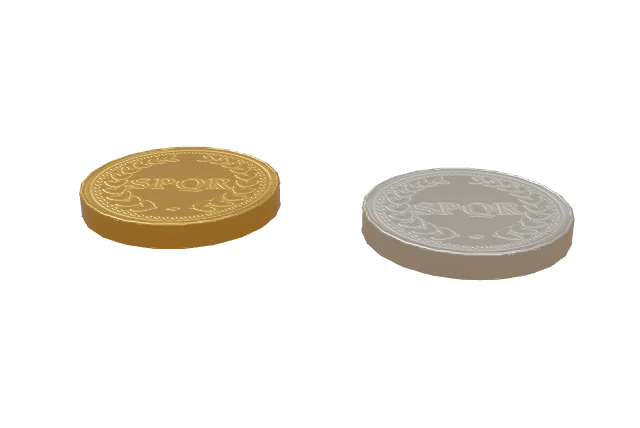
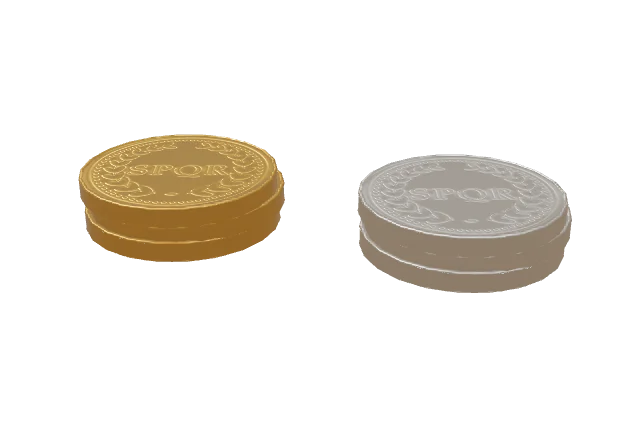
ラトルンクロルム3D：硬貨と骨の駒を3枚重ねに戻す（裏返ったときに分かりやすく）
Claude-Session: https://claude.ai/code/session_01EiWRAVpHBixHi279KdKnET

Changed region(s): [[0.5625, 0.3341, 0.9062, 0.6986], [0.125, 0.3037, 0.4688, 0.6379]]

diff --git a/atlas/lazy.js b/atlas/lazy.js
@@ -5,7 +5,7 @@
      AtlasLazy.has3D(id) / hasPlay(id) / hasRules(id) — known before loading; AtlasLazy.loaded(id) */
 (function () {
 'use strict';
-const G = {"reversi": ["models/reversi.js?v=1", "games/reversi.js?v=57", "rules/reversi.js?v=14"], "shogi": ["models/shogi.js?v=102", "games/shogi-play.js?v=51", "games/shogi.js?v=18", "rules/shogi.js?v=21"], "chess": ["models/chess.js?v=23", "games/chess.js?v=23", "rules/chess.js?v=8"], "backgammon": ["models/backgammon.js?v=123", "games/backgammon.js?v=29", "rules/backgammon.js?v=11"], "gomoku": ["models/goban.js?v=17", "games/gomoku.js?v=19", "rules/gomoku.js?v=10"], "go": ["models/goban.js?v=17", "games/go.js?v=18", "rules/go.js?v=7"], "hex": ["models/goban.js?v=17", "models/hex.js?v=3", "games/hex.js?v=9", "rules/hex.js?v=7"], "tafl": ["games/tafl.js?v=20", "rules/tafl.js?v=8"], "xiangqi": ["models/xiangqi.js?v=8", "games/xiangqi.js?v=18", "rules/xiangqi.js?v=7"], "janggi": ["models/xiangqi.js?v=8", "models/janggi.js?v=3", "games/janggi.js?v=10", "rules/janggi.js?v=3"], "checkers": ["models/checkers.js?v=23", "games/checkers.js?v=17", "rules/checkers.js?v=11"], "ugolki": ["models/checkers.js?v=23", "models/ugolki.js?v=4", "games/ugolki.js?v=17", "rules/ugolki.js?v=11"], "morris": ["models/morris.js?v=9", "games/morris-pieces.js?v=5", "games/morris.js?v=16", "rules/morris.js?v=8"], "connect4": ["models/connect4.js?v=6", "games/connect4-tiles.js?v=3", "games/connect4.js?v=10", "rules/connect4.js?v=3"], "mancala": ["models/mancala.js?v=6", "games/mancala.js?v=16", "rules/mancala.js?v=5"], "dots": ["models/dots.js?v=5", "games/dots.js?v=15", "rules/dots.js?v=3"], "ur": ["models/ur-dice.js?v=2", "models/ur.js?v=5", "games/ur-kit.js?v=15", "games/ur.js?v=15", "rules/ur.js?v=18"], "fanorona": ["models/fanorona.js?v=4", "games/fanorona.js?v=9", "rules/fanorona.js?v=8"], "konane": ["models/konane.js?v=7", "games/konane.js?v=18", "rules/konane.js?v=7"], "latrunculi": ["models/latrunculi.js?v=6", "games/latrunculi.js?v=9", "rules/latrunculi.js?v=3"], "foxgeese": ["models/foxgeese.js?v=7", "games/foxgeese.js?v=17", "rules/foxgeese.js?v=13"], "amazons": ["models/amazons.js?v=7", "games/amazons.js?v=17", "rules/amazons.js?v=9"], "senet": ["models/ur-dice.js?v=2", "models/senet.js?v=10", "games/senet-kit.js?v=5", "games/senet.js?v=20", "rules/senet.js?v=10"], "agon": ["models/agon.js?v=4", "games/agon.js?v=16", "rules/agon.js?v=6"], "alquerque": ["models/alquerque.js?v=3", "games/fanorona.js?v=9", "rules/alquerque.js?v=6"], "ludo": ["../ludo/engine.js?v=4", "../ludo/house.js?v=7", "../ludo/board2d.js?v=7", "../ludo/board-art.js?v=3", "models/ludo.js?v=10", "games/ludo.js?v=30", "rules/ludo.js?v=4"], "carrom": ["../carrom/engine.js?v=8", "models/carrom.js?v=18", "games/carrom.js?v=46", "rules/carrom.js?v=9", "../shared/onlinesec.js?v=2l14as1sh1", "online3d.js?v=2"], "crokinole": ["../carrom/engine.js?v=8", "games/carrom.js?v=46", "../crokinole/engine.js?v=7", "models/crokinole.js?v=13", "games/crokinole.js?v=24", "rules/crokinole.js?v=5", "../shared/onlinesec.js?v=2l14as1sh1", "online3d.js?v=2"], "hockey": ["../hockey/engine.js?v=19", "models/hockey.js?v=8", "games/hockey.js?v=41", "rules/hockey.js?v=8"], "botao": ["../carrom/engine.js?v=8", "games/carrom.js?v=46", "../botao/engine.js?v=16", "models/botao.js?v=11", "games/botao-i18n.js?v=16", "games/botao.js?v=36", "rules/botao.js?v=10", "../shared/onlinesec.js?v=2l14as1sh1", "online3d.js?v=2"], "shanghai": ["games/shanghai-core.js?v=2", "games/shanghai-scenes.js?v=2", "games/shanghai-zodiac.js?v=6", "games/shanghai-i18n.js?v=17", "models/shanghai.js?v=19", "games/shanghai.js?v=44", "rules/shanghai-i18n.js?v=1", "rules/shanghai.js?v=1"], "patolli": ["models/patolli.js?v=1", "games/patolli-kit.js?v=2", "games/patolli.js?v=4", "rules/patolli.js?v=3"], "peg": ["../peg/engine.js?v=2", "../peg/i18n.js?v=11", "models/peg.js?v=23", "games/peg.js?v=16", "rules/peg.js?v=4"], "hitblow": ["../hitblow/engine.js?v=6", "models/hitblow.js?v=27", "games/hitblow.js?v=19", "rules/hitblow.js?v=4"]};
+const G = {"reversi": ["models/reversi.js?v=1", "games/reversi.js?v=57", "rules/reversi.js?v=14"], "shogi": ["models/shogi.js?v=102", "games/shogi-play.js?v=51", "games/shogi.js?v=18", "rules/shogi.js?v=21"], "chess": ["models/chess.js?v=23", "games/chess.js?v=23", "rules/chess.js?v=8"], "backgammon": ["models/backgammon.js?v=123", "games/backgammon.js?v=29", "rules/backgammon.js?v=11"], "gomoku": ["models/goban.js?v=17", "games/gomoku.js?v=19", "rules/gomoku.js?v=10"], "go": ["models/goban.js?v=17", "games/go.js?v=18", "rules/go.js?v=7"], "hex": ["models/goban.js?v=17", "models/hex.js?v=3", "games/hex.js?v=9", "rules/hex.js?v=7"], "tafl": ["games/tafl.js?v=20", "rules/tafl.js?v=8"], "xiangqi": ["models/xiangqi.js?v=8", "games/xiangqi.js?v=18", "rules/xiangqi.js?v=7"], "janggi": ["models/xiangqi.js?v=8", "models/janggi.js?v=3", "games/janggi.js?v=10", "rules/janggi.js?v=3"], "checkers": ["models/checkers.js?v=23", "games/checkers.js?v=17", "rules/checkers.js?v=11"], "ugolki": ["models/checkers.js?v=23", "models/ugolki.js?v=4", "games/ugolki.js?v=17", "rules/ugolki.js?v=11"], "morris": ["models/morris.js?v=9", "games/morris-pieces.js?v=5", "games/morris.js?v=16", "rules/morris.js?v=8"], "connect4": ["models/connect4.js?v=6", "games/connect4-tiles.js?v=3", "games/connect4.js?v=10", "rules/connect4.js?v=3"], "mancala": ["models/mancala.js?v=6", "games/mancala.js?v=16", "rules/mancala.js?v=5"], "dots": ["models/dots.js?v=5", "games/dots.js?v=15", "rules/dots.js?v=3"], "ur": ["models/ur-dice.js?v=2", "models/ur.js?v=5", "games/ur-kit.js?v=15", "games/ur.js?v=15", "rules/ur.js?v=18"], "fanorona": ["models/fanorona.js?v=4", "games/fanorona.js?v=9", "rules/fanorona.js?v=8"], "konane": ["models/konane.js?v=7", "games/konane.js?v=18", "rules/konane.js?v=7"], "latrunculi": ["models/latrunculi.js?v=7", "games/latrunculi.js?v=9", "rules/latrunculi.js?v=3"], "foxgeese": ["models/foxgeese.js?v=7", "games/foxgeese.js?v=17", "rules/foxgeese.js?v=13"], "amazons": ["models/amazons.js?v=7", "games/amazons.js?v=17", "rules/amazons.js?v=9"], "senet": ["models/ur-dice.js?v=2", "models/senet.js?v=10", "games/senet-kit.js?v=5", "games/senet.js?v=20", "rules/senet.js?v=10"], "agon": ["models/agon.js?v=4", "games/agon.js?v=16", "rules/agon.js?v=6"], "alquerque": ["models/alquerque.js?v=3", "games/fanorona.js?v=9", "rules/alquerque.js?v=6"], "ludo": ["../ludo/engine.js?v=4", "../ludo/house.js?v=7", "../ludo/board2d.js?v=7", "../ludo/board-art.js?v=3", "models/ludo.js?v=10", "games/ludo.js?v=30", "rules/ludo.js?v=4"], "carrom": ["../carrom/engine.js?v=8", "models/carrom.js?v=18", "games/carrom.js?v=46", "rules/carrom.js?v=9", "../shared/onlinesec.js?v=2l14as1sh1", "online3d.js?v=2"], "crokinole": ["../carrom/engine.js?v=8", "games/carrom.js?v=46", "../crokinole/engine.js?v=7", "models/crokinole.js?v=13", "games/crokinole.js?v=24", "rules/crokinole.js?v=5", "../shared/onlinesec.js?v=2l14as1sh1", "online3d.js?v=2"], "hockey": ["../hockey/engine.js?v=19", "models/hockey.js?v=8", "games/hockey.js?v=41", "rules/hockey.js?v=8"], "botao": ["../carrom/engine.js?v=8", "games/carrom.js?v=46", "../botao/engine.js?v=16", "models/botao.js?v=11", "games/botao-i18n.js?v=16", "games/botao.js?v=36", "rules/botao.js?v=10", "../shared/onlinesec.js?v=2l14as1sh1", "online3d.js?v=2"], "shanghai": ["games/shanghai-core.js?v=2", "games/shanghai-scenes.js?v=2", "games/shanghai-zodiac.js?v=6", "games/shanghai-i18n.js?v=17", "models/shanghai.js?v=19", "games/shanghai.js?v=44", "rules/shanghai-i18n.js?v=1", "rules/shanghai.js?v=1"], "patolli": ["models/patolli.js?v=1", "games/patolli-kit.js?v=2", "games/patolli.js?v=4", "rules/patolli.js?v=3"], "peg": ["../peg/engine.js?v=2", "../peg/i18n.js?v=11", "models/peg.js?v=23", "games/peg.js?v=16", "rules/peg.js?v=4"], "hitblow": ["../hitblow/engine.js?v=6", "models/hitblow.js?v=27", "games/hitblow.js?v=19", "rules/hitblow.js?v=4"]};
 const F = {"patolli": {"t3": true, "play": true, "rules": true}, "reversi": {"t3": true, "play": true, "rules": true}, "shogi": {"t3": true, "play": true, "rules": true}, "chess": {"t3": true, "play": true, "rules": true}, "backgammon": {"t3": true, "play": true, "rules": true}, "gomoku": {"t3": true, "play": true, "rules": true}, "go": {"t3": true, "play": true, "rules": true}, "hex": {"t3": true, "play": true, "rules": true}, "tafl": {"t3": true, "play": true, "rules": true}, "xiangqi": {"t3": true, "play": true, "rules": true}, "janggi": {"t3": true, "play": true, "rules": true}, "checkers": {"t3": true, "play": true, "rules": true}, "ugolki": {"t3": true, "play": true, "rules": true}, "morris": {"t3": true, "play": true, "rules": true}, "connect4": {"t3": true, "play": true, "rules": true}, "mancala": {"t3": true, "play": true, "rules": true}, "dots": {"t3": true, "play": true, "rules": true}, "ur": {"t3": true, "play": true, "rules": true}, "fanorona": {"t3": true, "play": true, "rules": true}, "konane": {"t3": true, "play": true, "rules": true}, "latrunculi": {"t3": true, "play": true, "rules": true}, "foxgeese": {"t3": true, "play": true, "rules": true}, "amazons": {"t3": true, "play": true, "rules": true}, "senet": {"t3": true, "play": true, "rules": true}, "agon": {"t3": true, "play": true, "rules": true}, "alquerque": {"t3": true, "play": true, "rules": true}, "ludo": {"t3": true, "play": true, "rules": true}, "carrom": {"t3": true, "play": true, "rules": true}, "crokinole": {"t3": true, "play": true, "rules": true}, "hockey": {"t3": true, "play": true, "rules": true}, "botao": {"t3": true, "play": true, "rules": true}, "peg": {"t3": true, "play": true, "rules": true}, "shanghai": {"t3": true, "play": true, "rules": true}, "hitblow": {"t3": true, "play": true, "rules": true}};
 const done = new Set(), loading = new Map(), ok = new Set();
 function load(src) {

diff --git a/atlas/models/latrunculi.js b/atlas/models/latrunculi.js
@@ -524,16 +524,22 @@
         d[i * 4] = 0; d[i * 4 + 1] = Math.round((.05 + rel * .5) * 255); d[i * 4 + 2] = 255; d[i * 4 + 3] = 255; }
       g.putImageData(out, 0, 0); t.image = a; t.needsUpdate = true; if (X.kick) X.kick(200); });
     return t; });
-  function coin(g, col) {
-    const TT = T(), gold = col === 1, r = .3, th = .07;
+  function coin(g, col) {   // (2026-11-19 user: a stack of three again — turned over, the stack shows plainly)
+    const TT = T(), gold = col === 1, r = .3, th = .055;
     const metal = M('coin' + col, { color: gold ? '#ffd27a' : '#f2f4f7', metalness: 1, roughness: .04, envMapIntensity: 2.6 });
     const face = (k, img) => M('coinF' + k, { bumpMap: picTex(img), bumpScale: 1.6, roughnessMap: proofR(img), color: gold ? '#ffd27a' : '#f2f4f7', metalness: 1, roughness: 1, envMapIntensity: 2.6 });   // (no colour picture: the design shows as frosted relief on the mirror field)
-    g.add(mesh(G('cnSide1', () => { const q = new TT.CylinderGeometry(r, r, th, seg(56), 1, true); q.translate(0, th / 2, 0); return q; }), metal));
-    for (const y of [0, th]) g.add(mesh(G('cnRim1', () => { const q = new TT.TorusGeometry(r - .007, .008, 3, seg(48)); q.rotateX(Math.PI / 2); return q; }), metal, 0, y, 0));
-    g.add(mesh(faceGeo('cnTop', r, .9, false), face(col + 't', 'pc-coin-' + (gold ? 'b' : 'w')), 0, th + .0005, 0));
-    g.add(mesh(faceGeo('cnBot', r, .9, true), face(col + 'b', 'pc-coin-' + (gold ? 'bx' : 'wx')), 0, -.0005, 0));
-    g.userData.h = th; g.userData.lie = 0;
+    const side = G('cnSide3', () => { const q = new TT.CylinderGeometry(r, r, th, seg(56), 1, true); q.translate(0, th / 2, 0); return q; });
+    const rim = G('cnRim3', () => { const q = new TT.TorusGeometry(r - .006, .007, 3, seg(48)); q.rotateX(Math.PI / 2); return q; });
+    for (let k = 0; k < 3; k++) {
+      const o = new TT.Group(); o.position.set(k === 1 ? .014 : k === 2 ? -.006 : 0, k * th, k === 1 ? -.01 : k === 2 ? .008 : 0); g.add(o);
+      o.add(mesh(side, metal)); o.add(mesh(rim, metal, 0, th, 0)); o.add(mesh(rim, metal, 0, 0, 0));
+      if (k === 2) o.add(mesh(faceGeo('cnTop', r, .9, false), face(col + 't', 'pc-coin-' + (gold ? 'b' : 'w')), 0, th + .0005, 0));
+      if (k === 0) o.add(mesh(faceGeo('cnBot', r, .9, true), face(col + 'b', 'pc-coin-' + (gold ? 'bx' : 'wx')), 0, -.0005, 0));
+      if (k < 2) o.add(mesh(G('cnCapP', () => { const q = new TT.CircleGeometry(r - .004, seg(40)); q.rotateX(-Math.PI / 2); return q; }), metal, 0, th - .0005, 0));   // (the edge of the face shows where the next coin sits off-centre)
+    }
+    g.userData.h = 3 * th; g.userData.lie = 0;
   }
+
   // 'glass' (in 3D, 2026-11-19 user: 石細工でこだわりのチェス駒的な像で): a little Ionic column carved in marble — a square plinth,
   // the torus–scotia base, a fluted shaft (the flutes in a normal map), the capital with its two scrolls and the abacus slab.
   // Black verde antico (dark green-black), White Carrara; both old and weathered like the helmets.
@@ -564,14 +570,18 @@
     g.userData.h = .56 * 1.18; g.userData.lie = .21 * 1.18;
   }
   // bone: one turned disc (2026-11-19 user: 1枚でOK) — a bead round the edge, rings cut in the top; VI cut underneath (the 2D picture)
-  function bone(g, col) {
+  function bone(g, col) {   // (2026-11-19 user: three discs stacked again — turned over, the stack shows plainly)
     const TT = T(), dark = col === 1;
     const bm = M('boneC' + col, { map: boneTex(), bumpMap: boneTex(), bumpScale: .8, color: dark ? '#6e5640' : '#ffffff', roughness: .5, clearcoat: .15, clearcoatRoughness: .5 });
-    g.add(mesh(G('bnBody1', () => new TT.LatheGeometry([V2(0, .002), V2(.27, .002), V2(.29, .02), V2(.295, .05), V2(.29, .075), V2(.27, .092),
-      V2(.22, .098), V2(.2, .082), V2(.18, .1), V2(.12, .1), V2(.1, .084), V2(.08, .1), V2(0, .096)], seg(38))), bm));
+    const plain = G('bnDisc', () => new TT.LatheGeometry([V2(0, .002), V2(.27, .002), V2(.285, .015), V2(.29, .036), V2(.285, .055), V2(.27, .066), V2(0, .066)], seg(38)));
+    const top = G('bnTop3', () => new TT.LatheGeometry([V2(0, .002), V2(.27, .002), V2(.285, .015), V2(.29, .036), V2(.285, .055), V2(.27, .066),
+      V2(.22, .072), V2(.2, .058), V2(.18, .074), V2(.12, .074), V2(.1, .06), V2(.08, .074), V2(0, .07)], seg(38)));
+    const dz = .064;
+    g.add(mesh(plain, bm, 0, 0, 0)); g.add(mesh(plain, bm, .012, dz, -.008)); g.add(mesh(top, bm, -.004, 2 * dz, .006));
     g.add(mesh(faceGeo('bnBot', .27, .9, true), M('boneU' + col, { map: picTex('pc-bone-' + (dark ? 'bx' : 'wx')), color: '#ffffff', roughness: .55 }), 0, 0, 0));
-    g.userData.h = .1; g.userData.lie = 0;
+    g.userData.h = 2 * dz + .074; g.userData.lie = 0;
   }
+
   const BUILD = { helm, wood, abstract, coin, glass, bone };
   // col 1 Black (the first player) / 2 White. The body sits in an inner group that turns (topples or turns over).
   function piece(col, set) {

diff --git a/latrunculi/index.html b/latrunculi/index.html
@@ -1374,7 +1374,7 @@ body.hb-on .hb .controls.hb-menu{display:flex!important}
   const f = document.createElement('link'); f.rel = 'stylesheet'; f.href = 'https://fonts.googleapis.com/css2?family=RocknRoll+One&family=Zen+Maru+Gothic:wght@500;700;900&family=Fredoka:wght@600;700&display=swap'; document.head.appendChild(f);
   const load = src => new Promise((res, rej) => { const s = document.createElement('script'); s.src = src; s.onload = res; s.onerror = rej; document.body.appendChild(s); });
   if (window.AtlasLoading) { AtlasLoading.show(); setTimeout(() => AtlasLoading.hide(), 12000); }   // safety net
-  (/[?&]three=128\b/.test(location.search) ? load('https://cdnjs.cloudflare.com/ajax/libs/three.js/r128/three.min.js') : load('../atlas/vendor/three-r186.min.js?v=1').then(() => load('../atlas/vendor/three-compat.js?v=15'))).then(() => load('../atlas/img/tex/baked.js?v=3')).then(() => load('../atlas/table3d.js?v=184')).then(() => load('../atlas/tables3d.js?v=167')).then(() => load('../atlas/skin/common.js?v=114')).then(() => load('../atlas/models/latrunculi.js?v=6')).then(() => load('../atlas/skin/latrunculi.js?v=6'))
+  (/[?&]three=128\b/.test(location.search) ? load('https://cdnjs.cloudflare.com/ajax/libs/three.js/r128/three.min.js') : load('../atlas/vendor/three-r186.min.js?v=1').then(() => load('../atlas/vendor/three-compat.js?v=15'))).then(() => load('../atlas/img/tex/baked.js?v=3')).then(() => load('../atlas/table3d.js?v=184')).then(() => load('../atlas/tables3d.js?v=168')).then(() => load('../atlas/skin/common.js?v=114')).then(() => load('../atlas/models/latrunculi.js?v=7')).then(() => load('../atlas/skin/latrunculi.js?v=6'))
     .catch(() => { document.documentElement.classList.remove('atlas-skin'); if (window.AtlasLoading) AtlasLoading.hide(); });
 })();
 </script>

diff --git a/atlas/tables3d.js b/atlas/tables3d.js
@@ -525,7 +525,7 @@
     } };
   // ludus latrunculorum (atlas/models/latrunculi.js SETS, remade 2026-11-19): 'atlas-latrunculi-pc3' — 石の兜 (the default) · 木 · 花 · 硬貨 · 大理石の柱 (key 'glass': the 2D set's glass counters became carved columns in 3D) · 骨
   PIECES.latrunculi = { list: ['helm', 'wood', 'abstract', 'coin', 'glass', 'bone'], get: () => { let v = ls.get('atlas-latrunculi-pc3'); v = { gem: 'glass', stone: 'helm', bronze: 'coin', terra: 'wood' }[v] || v; return PIECES.latrunculi.list.includes(v) ? v : 'helm'; }, set: k => ls.set('atlas-latrunculi-pc3', k),
-    thumb: k => new URL('img/pc3-latrunculi-' + k + '.webp?v=5', ME).href,
+    thumb: k => new URL('img/pc3-latrunculi-' + k + '.webp?v=6', ME).href,
     names: {
       helm: { ja: '石の兜', en: 'Stone helmets', zh: '石盔', 'zh-TW': '石盔', ko: '돌 투구', es: 'Yelmos de piedra', fr: 'Casques de pierre', pt: 'Elmos de pedra', de: 'Steinhelme', ru: 'Каменные шлемы', tr: 'Taş miğferler', id: 'Helm batu', hi: 'पत्थर के शिरस्त्राण', ar: 'خوذ حجرية' },
       wood: { ja: '焼き絵の木駒', en: 'Pyrography wood', zh: '烙画木棋', 'zh-TW': '烙畫木棋', ko: '낙화 나무말', es: 'Madera pirograbada', fr: 'Bois pyrogravé', pt: 'Madeira pirogravada', de: 'Brandmalerei', ru: 'Выжигание по дереву', tr: 'Yakma ahşap', id: 'Kayu ukir bakar', hi: 'पायरोग्राफ़ी लकड़ी', ar: 'خشب محفور بالحرق' },

diff --git a/atlas/index.html b/atlas/index.html
@@ -2330,7 +2330,7 @@ else document.write('<script src="https://cdnjs.cloudflare.com/ajax/libs/three.j
 <script>/* the places other than the chabudai (tables3d.js, 440 KB): at once when one is chosen, else in idle time after the page has
    loaded (2026-11-10); 'atlas-places' tells the page they are there */
 (function () {
-  var SRC = 'tables3d.js?v=167', k = 0, p = null;
+  var SRC = 'tables3d.js?v=168', k = 0, p = null;
   try { k = +(localStorage.getItem('atlas-table') || 0) || 0; var m = /[?&]tbl=(\d+)/.exec(location.search); if (m) k = +m[1]; } catch (e) {}
   window.AtlasPlaces = function () { return p || (p = new Promise(function (res) { var s = document.createElement('script'); s.src = SRC; s.onload = s.onerror = function () { res(); try { dispatchEvent(new Event('atlas-places')); } catch (e) {} }; document.head.appendChild(s); })); };
   if (k) { document.write('<script src="' + SRC + '"><\/script>'); p = Promise.resolve(); }
@@ -2350,7 +2350,7 @@ window.AtlasRgdTimer = function (btn, ms, alive) {
   }, 60);
 };</script>
 <script src="../shared/tapword.js?v=1"></script>
-<script src="lazy.js?v=466"></script>
+<script src="lazy.js?v=467"></script>
 <script src="puzzle-lines.js?v=1"></script>
 <script src="puzzles.js?v=40"></script>
 <script src="lessons3d.js?v=69"></script>
